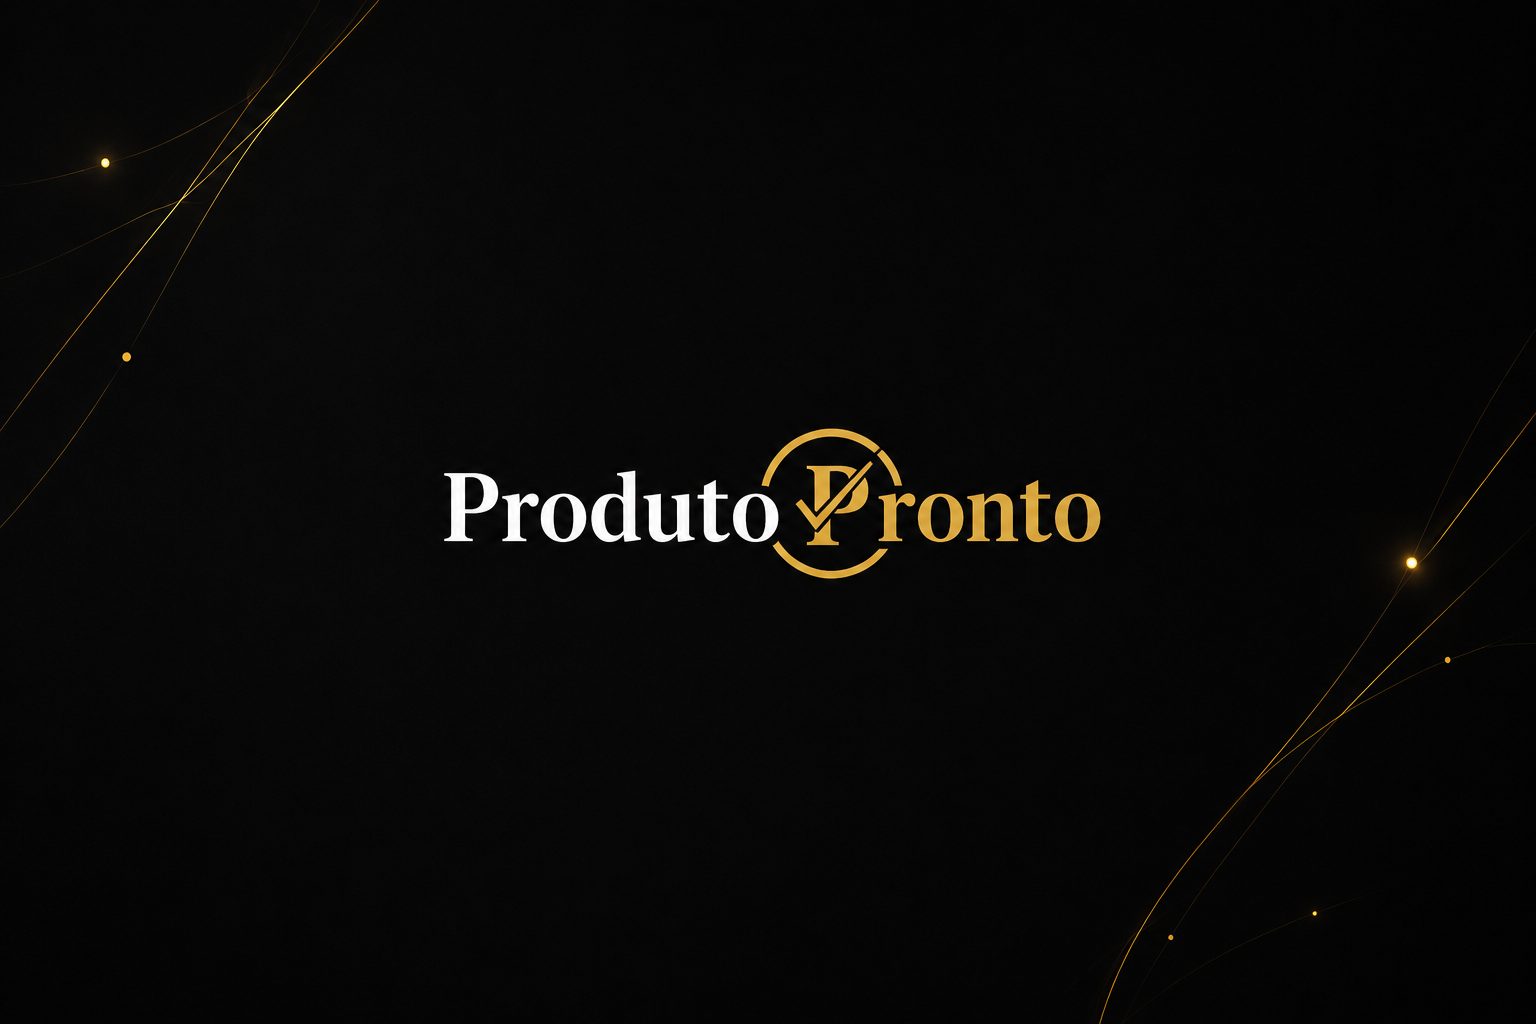
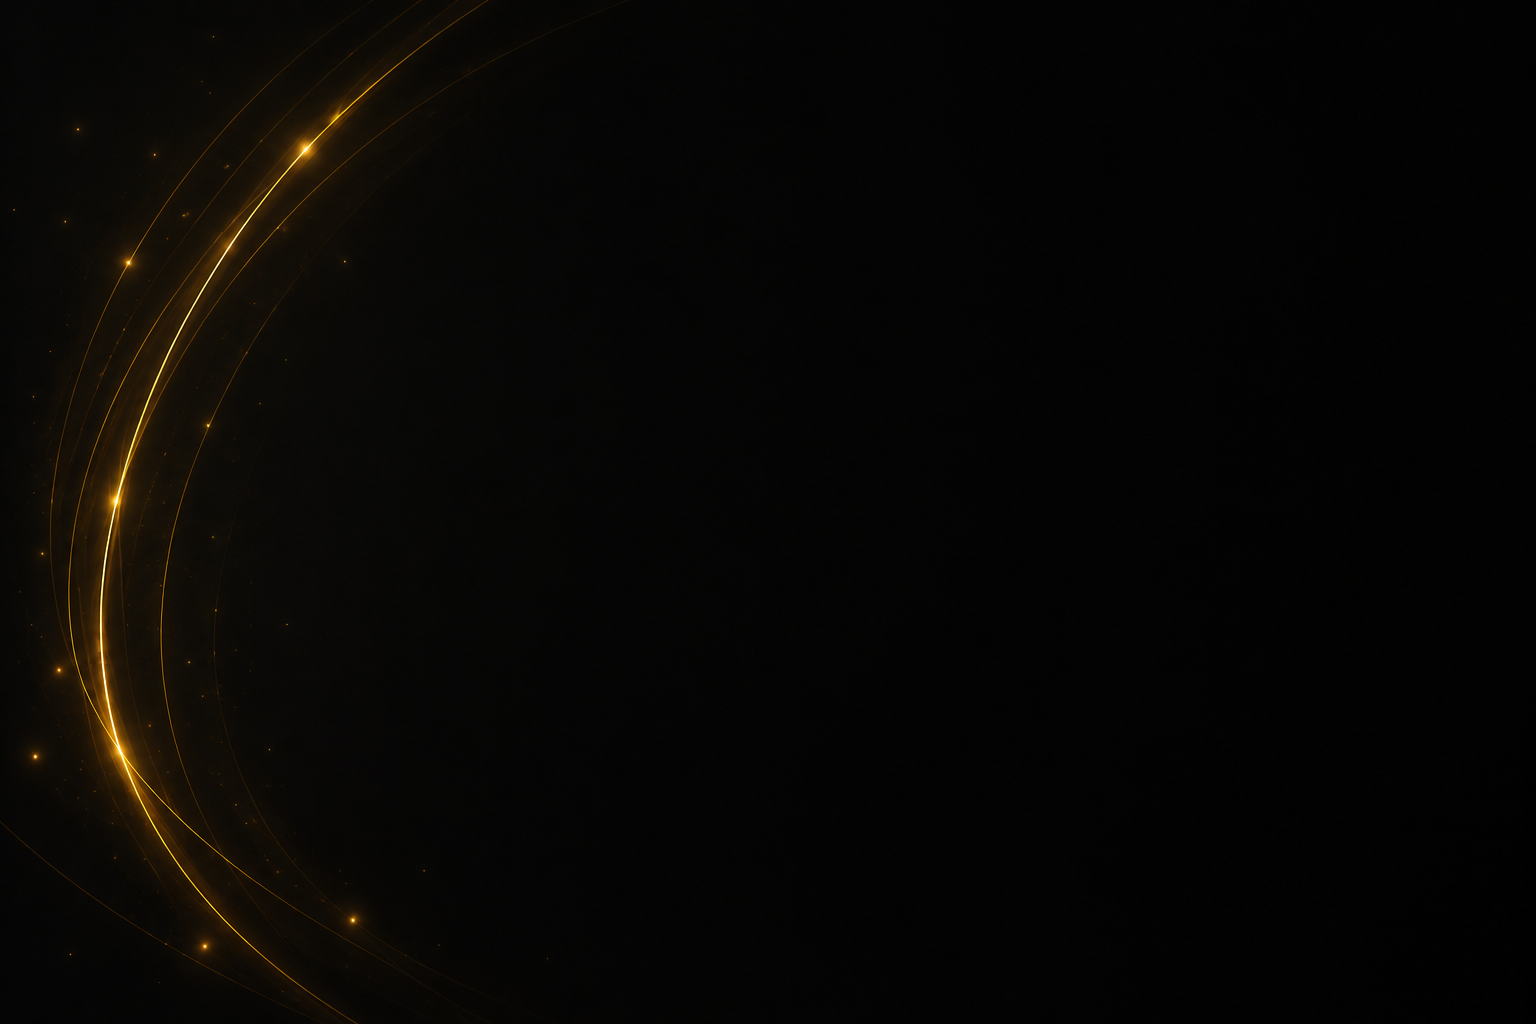
feat: redesign login screen

diff --git a/components/ProductProntoFlow.tsx b/components/ProductProntoFlow.tsx
@@ -473,7 +473,7 @@ export function ProductProntoFlow() {
     <main className="min-h-screen bg-background px-4 py-6 text-foreground sm:px-6 lg:px-8">
       <div
         className={`mx-auto flex min-h-[calc(100vh-3rem)] w-full flex-col ${
-          isAuthenticated ? "max-w-[1240px]" : "max-w-[1120px] justify-center"
+          isAuthenticated ? "max-w-[1240px]" : "max-w-none justify-center"
         }`}
       >
         {isAuthenticated ? (
@@ -772,40 +772,57 @@ function AccessScreen({
   const [password, setPassword] = useState("");
 
   return (
-    <section className="grid w-full items-center gap-7 lg:grid-cols-[1.05fr_0.95fr]">
-      <div className="order-2 overflow-hidden rounded-[36px] border border-white/8 bg-surface shadow-2xl shadow-black/30 lg:order-1">
-        <Image
-          alt="Composição visual Produto Pronto"
-          className="h-full min-h-[260px] w-full object-cover"
-          height={1024}
-          priority
-          src="/brand/login-hero.png"
-          width={1536}
-        />
+    <section className="grid min-h-[calc(100vh-3rem)] w-full overflow-hidden rounded-[36px] border border-white/8 bg-[#0D0D0D] shadow-2xl shadow-black/30 md:grid-cols-[45fr_55fr]">
+      <div
+        className="flex min-h-[360px] items-start bg-cover bg-[left_center] bg-no-repeat p-8 sm:min-h-[440px] sm:p-12 lg:p-20"
+        style={{
+          backgroundImage:
+            'linear-gradient(180deg, rgba(13,13,13,.10), rgba(13,13,13,.18)), url("/brand/login-hero.png")',
+        }}
+      >
+        <div className="max-w-[560px]">
+          <BrandLogo height={78} width={320} variant="horizontal" />
+          <h1 className="mt-12 max-w-[560px] text-[2.75rem] font-bold leading-[1.08] text-white sm:text-[3.6rem] lg:text-[4.35rem]">
+            Transforme seu conhecimento
+            <br />
+            em um
+            <br />
+            <span className="text-accent">produto digital.</span>
+          </h1>
+        </div>
       </div>
 
-      <div className="order-1 lg:order-2">
-        <div className="mb-8">
-          <BrandLogo size="lg" variant="light" />
-          <h1 className="mt-8 text-4xl font-semibold leading-tight text-foreground sm:text-5xl">
-            Entre para desenhar seu primeiro produto digital.
-          </h1>
-          <p className="mt-5 max-w-md text-sm leading-6 text-muted">
-            Use o e-mail da compra e a senha enviada apos a confirmacao do pagamento.
-          </p>
-        </div>
-
+      <div className="flex items-center justify-center px-5 py-10 sm:px-8 lg:px-14">
         <form
-          className="space-y-5 rounded-[32px] border border-white/8 bg-surface p-5 shadow-2xl shadow-black/30 sm:p-7"
+          className="w-full max-w-[520px] space-y-5 rounded-[28px] border border-white/8 bg-[#141414] p-6 shadow-2xl shadow-black/35 sm:p-9 lg:p-10"
           onSubmit={(event) => {
             event.preventDefault();
             void onEnter(email, password);
           }}
         >
+          <div className="mx-auto flex h-14 w-14 items-center justify-center rounded-2xl border border-white/8 bg-[#1B1B1B] text-accent">
+            <svg aria-hidden="true" className="h-7 w-7" fill="none" viewBox="0 0 24 24">
+              <path
+                d="M7.5 10V7.7C7.5 5.2 9.5 3.2 12 3.2s4.5 2 4.5 4.5V10"
+                stroke="currentColor"
+                strokeLinecap="round"
+                strokeWidth="1.8"
+              />
+              <path
+                d="M6.8 10h10.4c.9 0 1.6.7 1.6 1.6v6.1c0 .9-.7 1.6-1.6 1.6H6.8c-.9 0-1.6-.7-1.6-1.6v-6.1c0-.9.7-1.6 1.6-1.6Z"
+                stroke="currentColor"
+                strokeWidth="1.8"
+              />
+              <path d="M12 14v2.2" stroke="currentColor" strokeLinecap="round" strokeWidth="1.8" />
+            </svg>
+          </div>
+          <h2 className="text-center text-3xl font-bold leading-tight text-white sm:text-4xl">
+            Acesse <span className="text-accent">sua conta</span>
+          </h2>
           <label className="block">
-            <span className="mb-2 block text-sm font-medium text-[#F7F5EF]">E-mail</span>
+            <span className="mb-2 block text-sm font-medium text-white">Email</span>
             <input
-              className="h-[52px] w-full rounded-2xl border border-white/10 bg-surface-2 px-4 text-base text-[#F7F5EF] outline-none transition placeholder:text-muted focus:border-accent focus:ring-4 focus:ring-accent/15"
+              className="h-14 w-full rounded-2xl border border-white/8 bg-[#1B1B1B] px-4 text-base text-white outline-none transition placeholder:text-[#A8A8A8] focus:border-accent focus:ring-4 focus:ring-accent/15"
               onChange={(event) => setEmail(event.target.value)}
               placeholder="[email redacted]"
               type="email"
@@ -814,15 +831,31 @@ function AccessScreen({
           </label>
 
           <label className="block">
-            <span className="mb-2 block text-sm font-medium text-[#F7F5EF]">Senha</span>
+            <span className="mb-2 block text-sm font-medium text-white">Senha</span>
             <input
-              className="h-[52px] w-full rounded-2xl border border-white/10 bg-surface-2 px-4 text-base text-[#F7F5EF] outline-none transition placeholder:text-muted focus:border-accent focus:ring-4 focus:ring-accent/15"
+              className="h-14 w-full rounded-2xl border border-white/8 bg-[#1B1B1B] px-4 text-base text-white outline-none transition placeholder:text-[#A8A8A8] focus:border-accent focus:ring-4 focus:ring-accent/15"
               onChange={(event) => setPassword(event.target.value)}
               placeholder="Senha enviada por e-mail"
               type="password"
               value={password}
             />
           </label>
+
+          <div className="flex items-center justify-between gap-4 text-sm text-[#A8A8A8]">
+            <label className="flex min-w-0 items-center gap-2">
+              <input
+                className="h-4 w-4 rounded border-white/20 bg-[#1B1B1B] accent-[#C9A84C]"
+                type="checkbox"
+              />
+              <span>Lembrar meu acesso</span>
+            </label>
+            <button
+              className="shrink-0 text-[#C9A84C] transition hover:text-[#E5CB78] focus:outline-none focus:ring-2 focus:ring-accent focus:ring-offset-2 focus:ring-offset-[#141414]"
+              type="button"
+            >
+              Esqueci minha senha
+            </button>
+          </div>
 
           {error ? (
             <p className="rounded-2xl border border-red-400/20 bg-red-500/10 px-4 py-3 text-sm leading-5 text-red-100">
@@ -831,12 +864,24 @@ function AccessScreen({
           ) : null}
 
           <button
-            className="h-[52px] w-full rounded-2xl bg-accent px-5 text-sm font-bold text-[#0D0D0D] transition hover:bg-accent-light focus:outline-none focus:ring-2 focus:ring-accent focus:ring-offset-2 focus:ring-offset-background disabled:cursor-not-allowed disabled:opacity-55"
+            className="h-14 w-full rounded-2xl bg-accent px-5 text-sm font-bold text-[#0D0D0D] shadow-lg shadow-accent/10 transition hover:bg-accent-light focus:outline-none focus:ring-2 focus:ring-accent focus:ring-offset-2 focus:ring-offset-[#141414] disabled:cursor-not-allowed disabled:opacity-55"
             disabled={isSubmitting}
             type="submit"
           >
             {isSubmitting ? "Entrando..." : "Entrar"}
           </button>
+          <div className="flex flex-col items-center gap-2 pt-2 text-center text-sm font-medium text-[#A8A8A8]">
+            <svg aria-hidden="true" className="h-5 w-5 text-accent" fill="none" viewBox="0 0 24 24">
+              <path
+                d="M12 3.4 18.5 6v5.2c0 4.1-2.6 7.8-6.5 9.1-3.9-1.3-6.5-5-6.5-9.1V6L12 3.4Z"
+                stroke="currentColor"
+                strokeLinejoin="round"
+                strokeWidth="1.8"
+              />
+              <path d="m9.4 12 1.7 1.7 3.7-4" stroke="currentColor" strokeLinecap="round" strokeWidth="1.8" />
+            </svg>
+            <span>Ambiente seguro e protegido</span>
+          </div>
         </form>
       </div>
     </section>